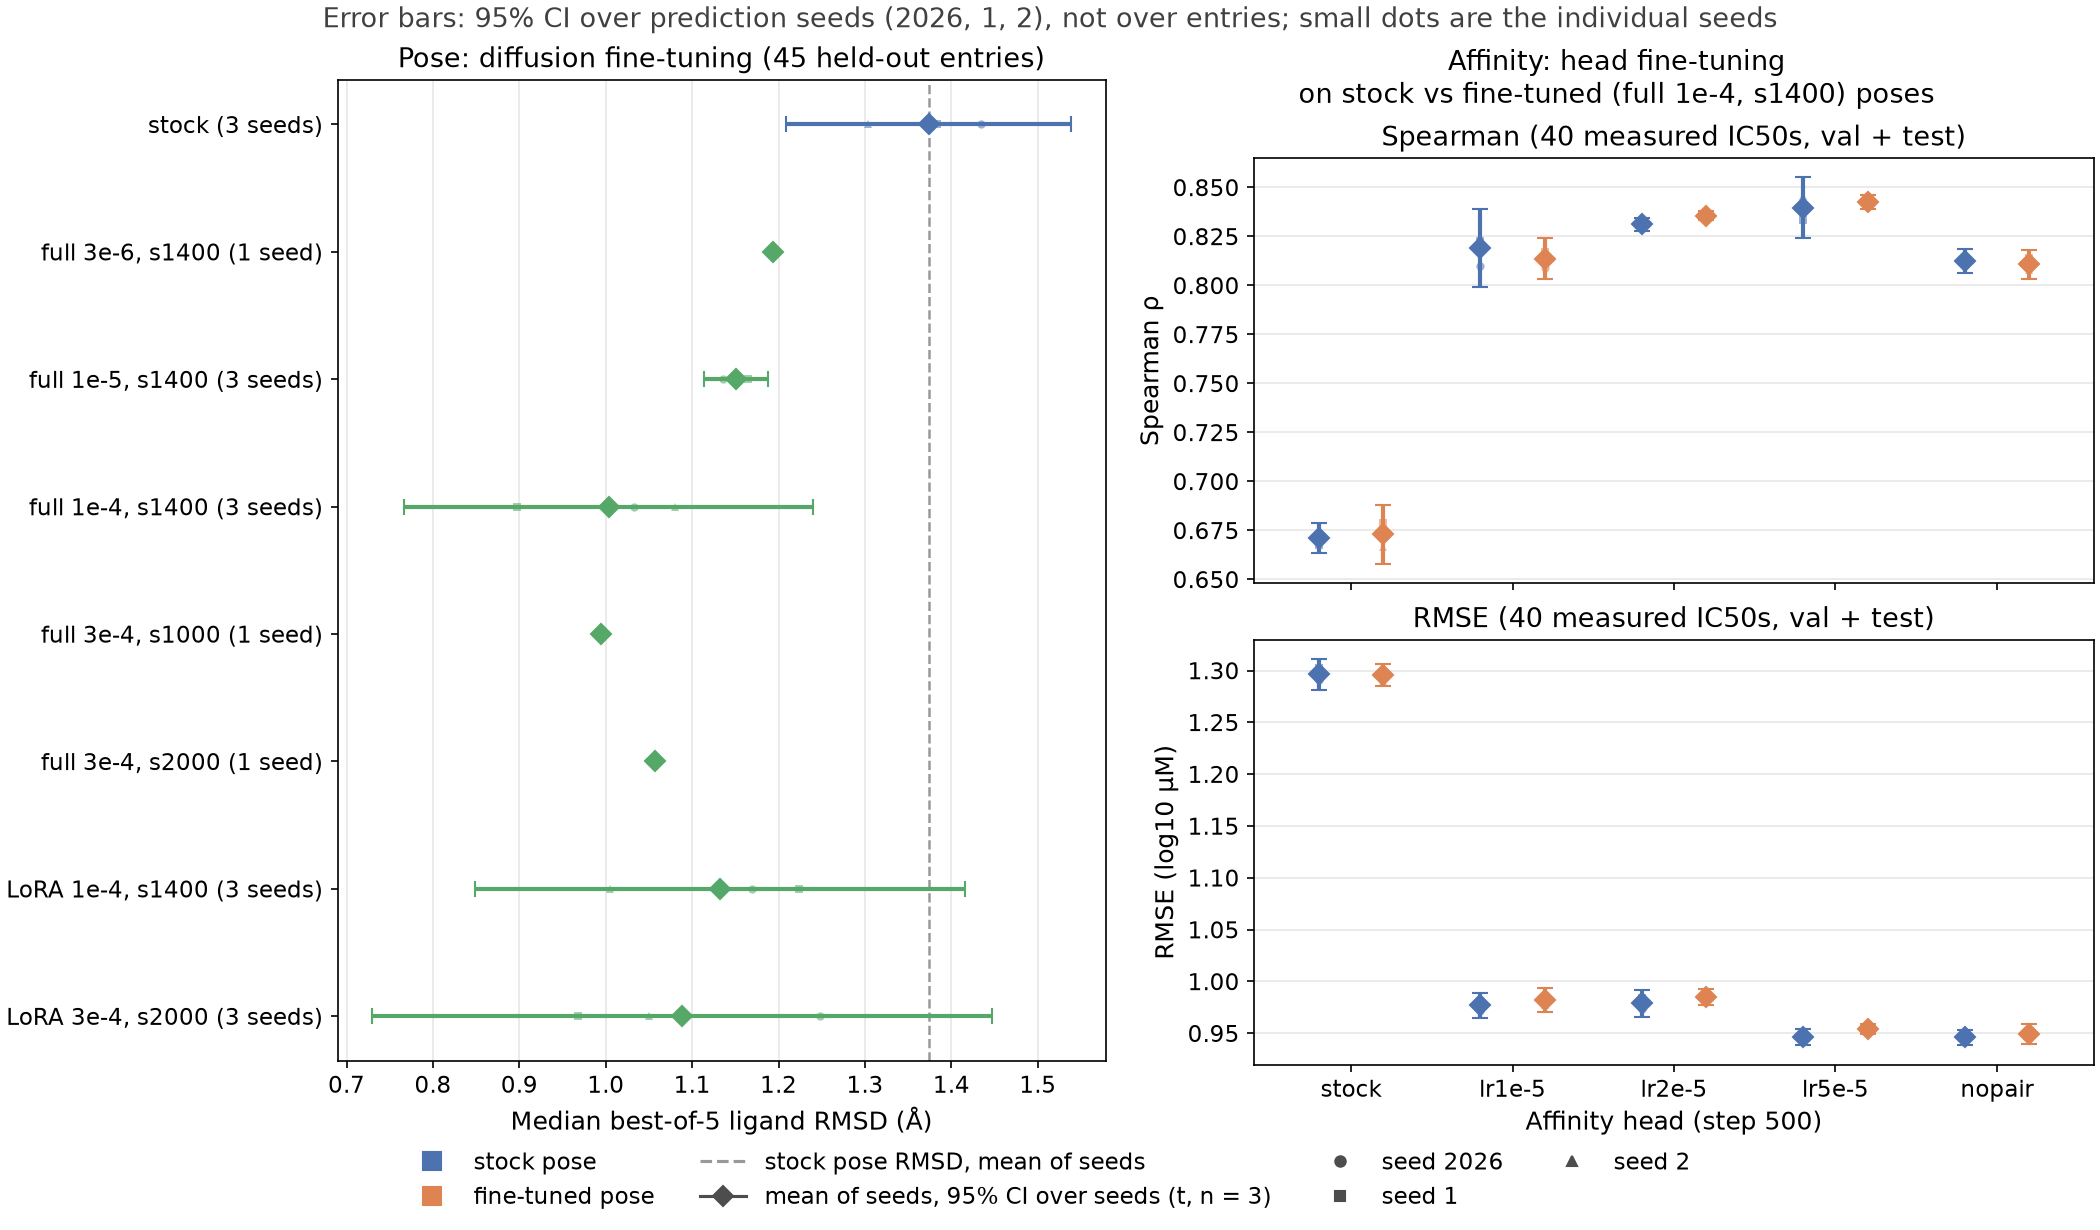
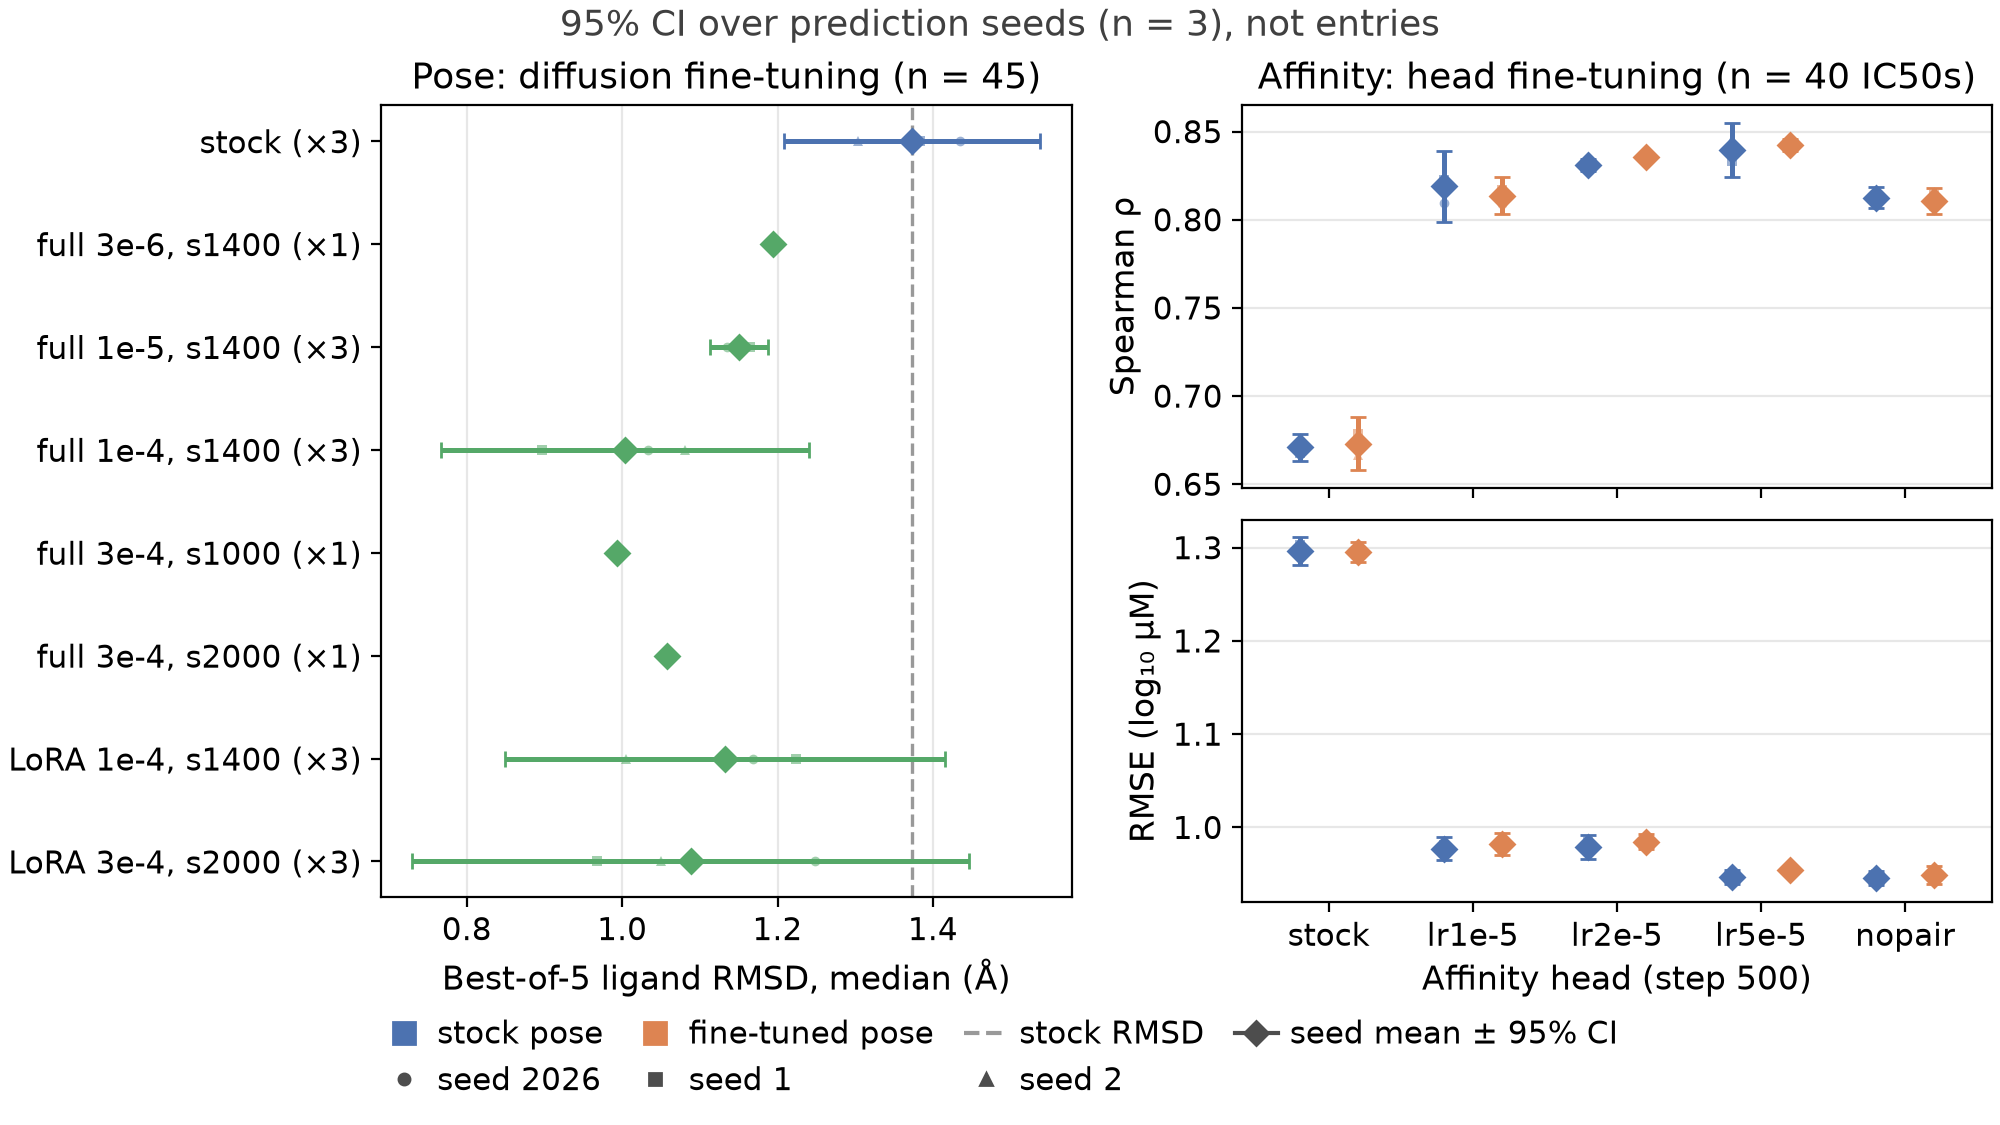
Resize results-at-a-glance figures for 16:9 slides with readable text

diff --git a/experiments/plot_results_glance.py b/experiments/plot_results_glance.py
@@ -127,15 +127,15 @@ def draw(axis: plt.Axes, position: float, rows: list[dict], mode: str, color: st
 
     if mode == "seeds":
         mean, low, high = seed_interval([row["value"] for row in rows])
-        errorbar(position, mean, low, high, fmt="D", color=color, markersize=7, capsize=4, linewidth=2)
+        errorbar(position, mean, low, high, fmt="D", color=color, markersize=6, capsize=3, linewidth=1.8)
         for row in rows:
             point = (row["value"], position) if horizontal else (position, row["value"])
-            axis.plot(*point, SEED_MARKERS[row["seed"]], color=color, markersize=4, alpha=0.55, markeredgewidth=0)
+            axis.plot(*point, SEED_MARKERS[row["seed"]], color=color, markersize=3.5, alpha=0.55, markeredgewidth=0)
     else:
         offsets = {2026: -spacing, 1: 0.0, 2: spacing}
         for row in rows:
             errorbar(position + offsets[row["seed"]], row["value"], row["low"], row["high"], fmt=SEED_MARKERS[row["seed"]], color=color,
-                     markersize=6, capsize=2.5, linewidth=1.3)
+                     markersize=4.5, capsize=2, linewidth=1.1)
 
 
 def plot_pose(axis: plt.Axes, rows: list[dict], mode: str) -> None:
@@ -144,10 +144,10 @@ def plot_pose(axis: plt.Axes, rows: list[dict], mode: str) -> None:
     axis.axvline(stock_mean, color="0.6", linestyle="--", linewidth=1.2, zorder=0)
     for index, label in enumerate(labels):
         draw(axis, index, [row for row in rows if row["label"] == label], mode, "#4c72b0" if label == "stock" else "#55a868", True, 0.22)
-    axis.set_yticks(range(len(labels)), [f"{label} ({sum(row['label'] == label for row in rows)} seed{'s' if sum(row['label'] == label for row in rows) > 1 else ''})" for label in labels])
+    axis.set_yticks(range(len(labels)), [f"{label} (×{sum(row['label'] == label for row in rows)})" for label in labels])
     axis.invert_yaxis()
-    axis.set_xlabel("Median best-of-5 ligand RMSD (Å)")
-    axis.set_title("Pose: diffusion fine-tuning (45 held-out entries)")
+    axis.set_xlabel("Best-of-5 ligand RMSD, median (Å)")
+    axis.set_title("Pose: diffusion fine-tuning (n = 45)")
     axis.grid(axis="x", alpha=0.3)
 
 
@@ -163,36 +163,35 @@ def plot_affinity(axes, rows: list[dict], mode: str) -> None:
         axis.set_xticks(range(len(HEADS)), ["stock" if head == "stock" else head.replace("aff_", "") for head in HEADS])
         axis.set_xlim(-0.6, len(HEADS) - 0.4)
         axis.grid(axis="y", alpha=0.3)
-        axis.set_title(f"{'Spearman' if metric == 'spearman' else 'RMSE'} ({count} measured IC50s, val + test)")
-        axis.set_ylabel("Spearman ρ" if metric == "spearman" else "RMSE (log10 µM)")
+        axis.set_ylabel("Spearman ρ" if metric == "spearman" else "RMSE (log₁₀ µM)")
     axes[1].set_xlabel("Affinity head (step 500)")
+    axes[0].set_title(f"Affinity: head fine-tuning (n = {count} IC50s)")
 
 
 def legend_handles(mode: str) -> list:
-    handles = [plt.Line2D([], [], color=color, marker="s", linestyle="none", markersize=9, label=pose) for pose, color in POSE_COLORS.items()]
-    handles.append(plt.Line2D([], [], color="0.6", linestyle="--", label="stock pose RMSD, mean of seeds"))
+    handles = [plt.Line2D([], [], color=color, marker="s", linestyle="none", markersize=8, label=pose) for pose, color in POSE_COLORS.items()]
+    handles.append(plt.Line2D([], [], color="0.6", linestyle="--", label="stock RMSD"))
     if mode == "seeds":
-        handles.append(plt.Line2D([], [], color="0.3", marker="D", linestyle="-", markersize=7, label="mean of seeds, 95% CI over seeds (t, n = 3)"))
+        handles.append(plt.Line2D([], [], color="0.3", marker="D", linestyle="-", markersize=6, label="seed mean ± 95% CI"))
     for seed, marker in SEED_MARKERS.items():
-        size = 5 if mode == "seeds" else 7
+        size = 4 if mode == "seeds" else 6
         handles.append(plt.Line2D([], [], color="0.3", marker=marker, linestyle="none", markersize=size, label=f"seed {seed}"))
+    if mode == "seeds":
+        handles = [handles[0], handles[4], handles[1], handles[5], handles[2], handles[6], handles[3]]
     return handles
 
 
 def make_figure(pose_rows: list[dict], affinity_rows: list[dict], mode: str, path: Path) -> None:
-    figure = plt.figure(figsize=(14, 8.2), layout="constrained")
+    figure = plt.figure(figsize=(10, 5.625), layout="constrained")
     if mode == "seeds":
-        figure.suptitle("Error bars: 95% CI over prediction seeds (2026, 1, 2), not over entries; small dots are the individual seeds",
-                        fontsize=13, color="0.25")
+        figure.suptitle("95% CI over prediction seeds (n = 3), not entries", fontsize=13, color="0.25")
     else:
-        figure.suptitle("Error bars: 95% bootstrap CI over held-out entries (2000 resamples), one bar per prediction seed",
-                        fontsize=13, color="0.25")
-    left, right = figure.subfigures(1, 2, width_ratios=[1.15, 1])
+        figure.suptitle("95% bootstrap CI over held-out entries, one bar per seed", fontsize=13, color="0.25")
+    left, right = figure.subfigures(1, 2, width_ratios=[1.2, 1])
     plot_pose(left.subplots(), pose_rows, mode)
-    right.suptitle("Affinity: head fine-tuning\non stock vs fine-tuned (full 1e-4, s1400) poses", fontsize=13)
     plot_affinity(right.subplots(2, 1, sharex=True), affinity_rows, mode)
-    figure.legend(handles=legend_handles(mode), loc="outside lower center", ncol=7 if mode == "bootstrap" else 4, frameon=False)
-    figure.savefig(path, dpi=150)
+    figure.legend(handles=legend_handles(mode), loc="outside lower center", ncol=4 if mode == "seeds" else 6, frameon=False, handlelength=1.4, columnspacing=1.0, handletextpad=0.4)
+    figure.savefig(path)
     print(f"wrote {path}")
 
 
@@ -200,7 +199,8 @@ def main() -> None:
     parser = argparse.ArgumentParser(description=__doc__.splitlines()[0])
     parser.add_argument("--out-dir", type=Path, default=Path("docs/figures"))
     args = parser.parse_args()
-    plt.rcParams.update({"font.size": 12, "axes.titlesize": 13, "axes.labelsize": 12, "xtick.labelsize": 11, "ytick.labelsize": 11, "legend.fontsize": 11})
+    plt.rcParams.update({"font.size": 12, "axes.titlesize": 13, "axes.labelsize": 12, "xtick.labelsize": 11, "ytick.labelsize": 11, "legend.fontsize": 11,
+                         "savefig.dpi": 200})
     rng = np.random.default_rng(0)
     pose_rows, affinity_rows = pose_values(rng), affinity_values(rng)
     args.out_dir.mkdir(parents=True, exist_ok=True)
